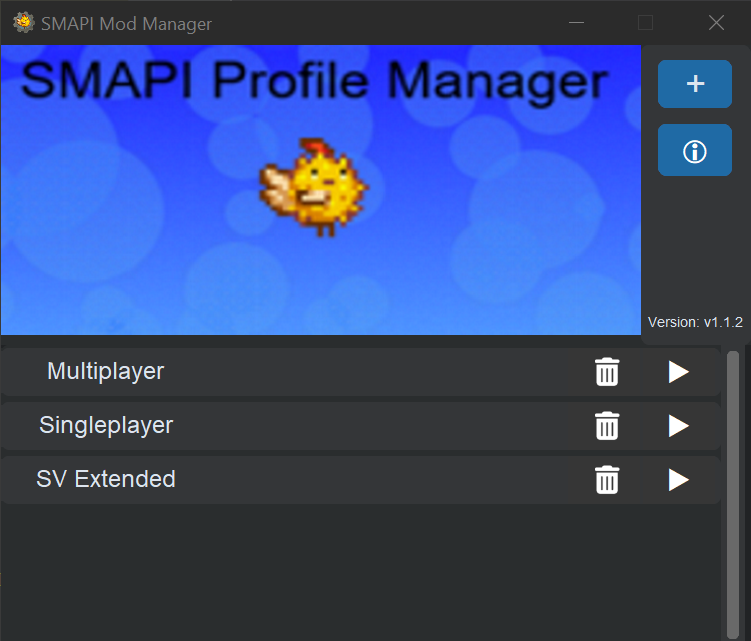
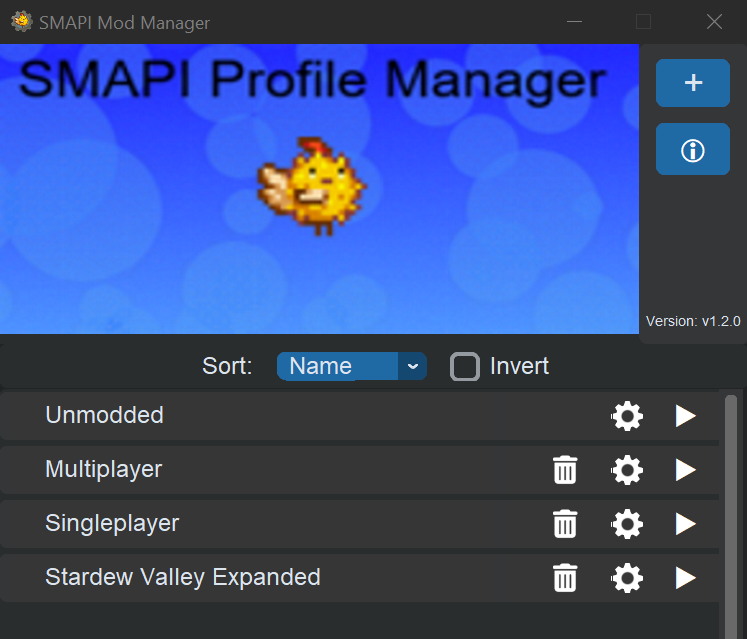
Finish changes, now testing update

diff --git a/changlelog.md b/changlelog.md
@@ -1,6 +1,7 @@
 # SMAPI Profile Manager Changelog
 
-# Core Update [v1.2.0] (???)
+# Core Update [v1.2.0] (Jan 8, 2023)
+A major update that focuses on core backend features of the program to improve user experience and make the program more reliable.
 
 ### Additions
  - Profiles can now be edited, and an editor has been added to the UI (#20)
@@ -13,6 +14,7 @@
  - The program will now start in the center of your screen
  - Mod profile information is now stored in a JSON file (#19)
  - Mod profile creation date and date last played are now tracked (#19)
+ - Updated the preview image in the README
 
 ### Fixes
  - Fixed tooltips with small amounts of text being much wider than the text
